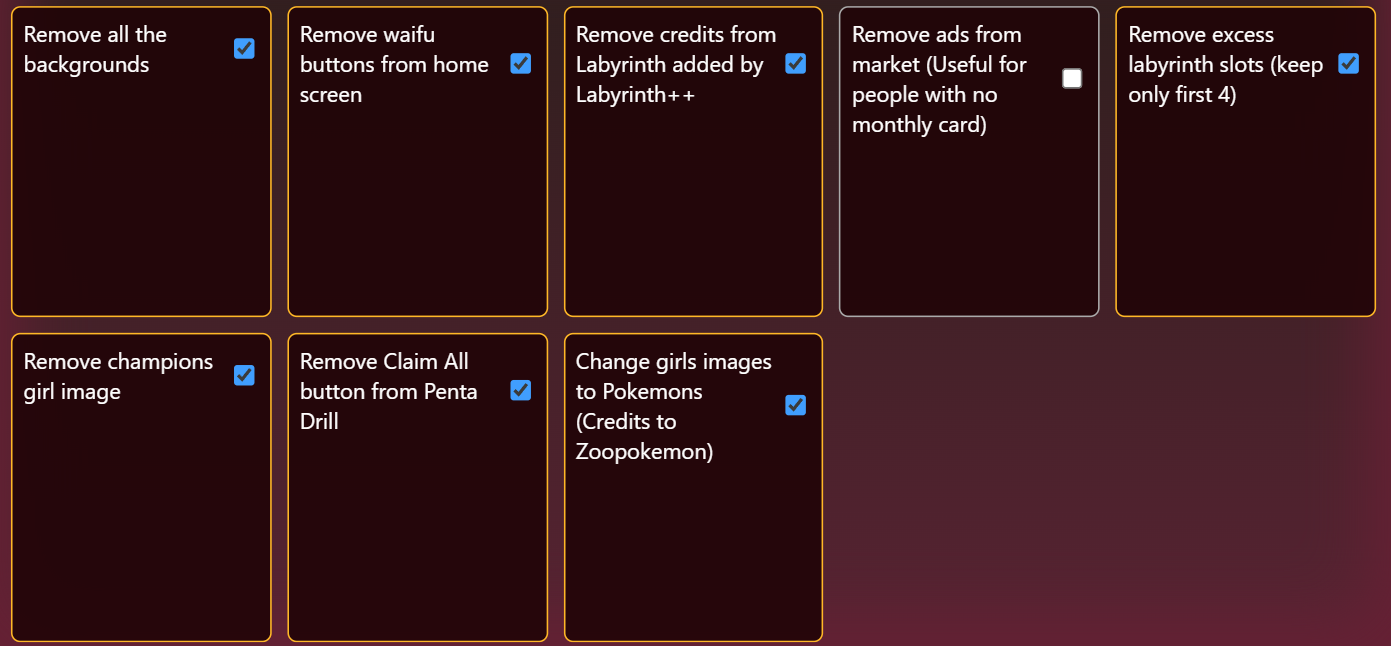
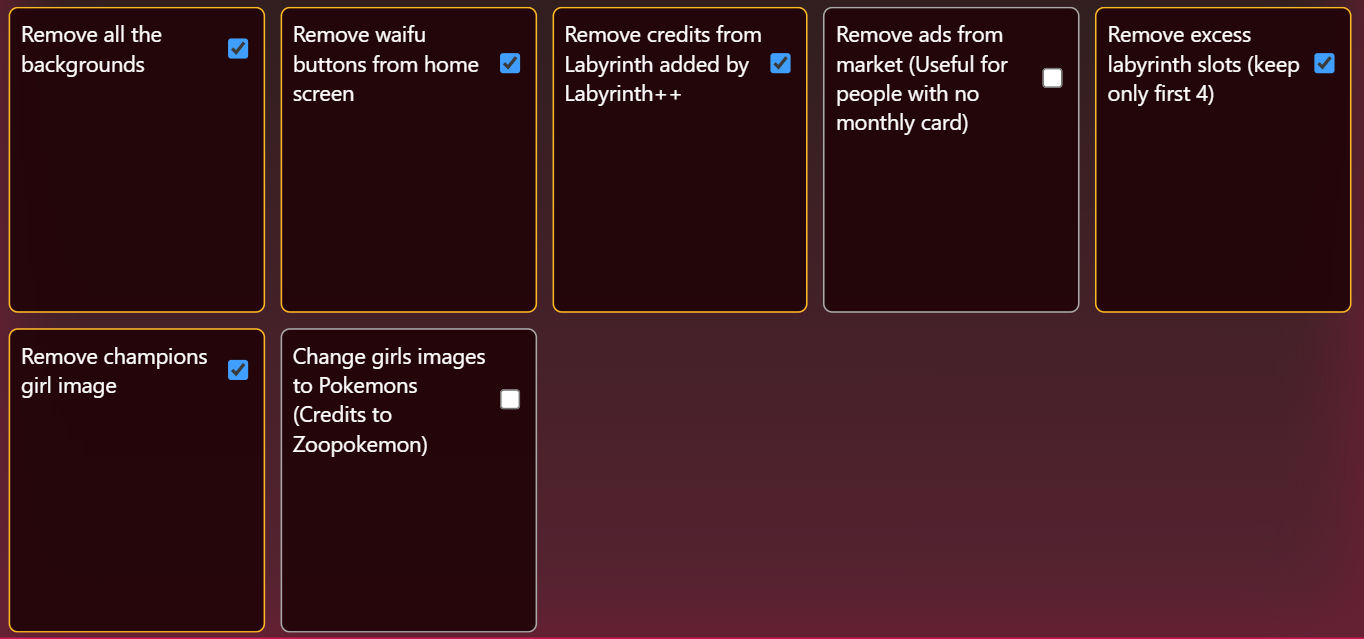
Move everything to add_Style for faster action

Changed region(s): [[0.0, 0.0, 1.0, 1.0], [0.8006, 0.4757, 0.9853, 0.5055]]

diff --git a/several_yeets.user.js b/several_yeets.user.js
@@ -2,7 +2,7 @@
 // @name         Several Yeets
 // @namespace    hh-several-yeets
 // @author       arush
-// @version      1.0.6
+// @version      1.0.7
 // @description  Removes a few unnecessary things to make it less cluttered (Only Tested on hentaiheroes).
 // @match        *://*.hentaiheroes.com/*
 // @match        *://*.haremheroes.com/*
@@ -57,89 +57,76 @@ async function severalYeets() {
     'use strict';
 
     function removeAllBackgrounds() {
-        doWhenSelectorAvailable('#bg_all .fixed_scaled img', () => {
-            const img = document.querySelector('#bg_all .fixed_scaled img');
-            img.remove();
-        });
+        GM_addStyle(`
+            #bg_all .fixed_scaled img {
+                display: none !important;
+            }
+        `);
     }
 
     function removeWaifuButtons() {
-        if (!window.location.pathname.includes('home.html')) {
-            return;
+        if (window.location.pathname.includes('home.html')) {
+            GM_addStyle(`
+                .waifu-buttons-container {
+                    display: none !important;
+                }
+            `);
         }
-
-        doWhenSelectorAvailable('.waifu-buttons-container', () => {
-            const container = document.querySelector('.waifu-buttons-container');
-            container.style.display = 'none';
-        });
     }
 
     function removeCreditsFromLabyrinthPlusPlus() {
-        if (!window.location.pathname.includes('labyrinth')) {
-            return;
+        if (window.location.pathname.includes('labyrinth')) {
+            GM_addStyle(`
+                .credits {
+                    display: none !important;
+                }
+            `);
         }
-
-        doWhenSelectorAvailable('.credits', () => {
-            const el = document.querySelector('.credits');
-            el.remove();
-        });
     }
 
     function removeMarketAds() {
         if (window.location.pathname.includes('shop.html')) {
-            doWhenSelectorAvailable('#ad_shop', (el) => {
-                el.remove();
-            });
+            GM_addStyle(`
+                #ad_shop {
+                    display: none !important;
+                }
+            `);
         }
     }
 
     function removeExcessLabyrinthSlots() {
         if (!window.location.pathname.includes('labyrinth')) return;
 
-        function filterLabyrinthSlots() {
-            // In case there are multiple shops / lists rendered
-            const containers = document.querySelectorAll('.shop-items-list');
-            if (!containers.length) return;
+        function filterLabyrinthSlots(root = document) {
+            const slots = root.querySelectorAll('.shop-item');
 
-            containers.forEach(container => {
-                const slots = container.querySelectorAll('.shop-item');
-                slots.forEach(slot => {
-                    const button = slot.querySelector('.buy-item');
-                    if (!button) return;
+            slots.forEach(slot => {
+                const button = slot.querySelector('.buy-item');
+                if (!button) return;
 
-                    const index = parseInt(button.getAttribute('slot_index'), 10);
-                    if (!isNaN(index) && index > 3) {
-                        slot.remove();
-                    }
-                });
+                const index = Number(button.getAttribute('slot_index'));
+                if (index > 3) {
+                    slot.remove();
+                }
             });
         }
 
-        // Run once for whatever is currently on screen
-        doWhenSelectorAvailable('.shop-items-list', filterLabyrinthSlots);
+        // Initial run
+        filterLabyrinthSlots();
 
-        // Watch the whole document for shop re-renders
+        // Observe for re-renders
         const observer = new MutationObserver((mutations) => {
-            let shouldRun = false;
-
             for (const mutation of mutations) {
-                for (const node of mutation.addedNodes) {
-                    if (node.nodeType !== 1) continue; // not an element
+                mutation.addedNodes.forEach(node => {
+                    if (node.nodeType !== 1) return;
 
-                    // If a shop list or shop item (or a container with them) was added
                     if (
-                        node.matches?.('.shop-items-list, .shop-item') ||
-                        node.querySelector?.('.shop-items-list, .shop-item')
+                        node.matches?.('.shop-item') ||
+                        node.querySelector?.('.shop-item')
                     ) {
-                        shouldRun = true;
-                        break;
+                        filterLabyrinthSlots(node);
                     }
-                }
-                if (shouldRun) break;
-            }
-
-            if (shouldRun) {
-                doWhenSelectorAvailable('.shop-items-list', filterLabyrinthSlots);
+                });
             }
         });
 
@@ -150,31 +137,14 @@ async function severalYeets() {
     }
 
     function removeChampionsGirl() {
-        if (!window.location.pathname.includes('champions') &&
-            !window.location.pathname.includes('club-champion')) {
-            return;
+        if (window.location.pathname.includes('champions') ||
+            window.location.pathname.includes('club-champion')) {
+            GM_addStyle(`
+                .champions-over__girl-image {
+                    display: none !important;
+                }
+            `);
         }
-
-        doWhenSelectorAvailable('.champions-over__girl-image', () => {
-            const girlImage = document.querySelector('.champions-over__girl-image');
-            if (girlImage) {
-                girlImage.remove();
-            }
-        });
-    }
-
-    function removeClaimAllButtonFromPD() {
-        if (!window.location.pathname.includes('penta-drill')) {
-            return;
-        }
-
-        doWhenSelectorAvailable('#claim-all', () => {
-            const claimAllButton = document.querySelector('#claim-all');
-
-            if (claimAllButton) {
-                claimAllButton.remove();
-            }
-        });
     }
 
     function changeGirlsToPokemons() {
@@ -241,8 +211,6 @@ async function severalYeets() {
             removeExcessLabyrinthSlots:
                 { enabled: true },
             removeChampionsGirl:
-                { enabled: true },
-            removeClaimAllButtonFromPD:
                 { enabled: true },
             changeGirlsToPokemons:
                 { enabled: true },
@@ -355,21 +323,6 @@ async function severalYeets() {
         registerModule({
             group: 'several_yeets',
             configSchema: {
-                baseKey: 'removeClaimAllButtonFromPD',
-                label: 'Remove Claim All button from Penta Drill',
-                default: true,
-            },
-            run() {
-                config.removeClaimAllButtonFromPD = {
-                    enabled: true,
-                };
-            },
-        });
-        config.removeClaimAllButtonFromPD.enabled = false;
-
-        registerModule({
-            group: 'several_yeets',
-            configSchema: {
                 baseKey: 'changeGirlsToPokemons',
                 label: 'Change girls images to Pokemons (Credits to Zoopokemon)',
                 default: true,
@@ -423,10 +376,6 @@ async function severalYeets() {
 
     if (CONFIG.removeChampionsGirl.enabled) {
         removeChampionsGirl();
-    }
-
-    if (CONFIG.removeClaimAllButtonFromPD.enabled) {
-        removeClaimAllButtonFromPD();
     }
 
     if (CONFIG.changeGirlsToPokemons.enabled) {
